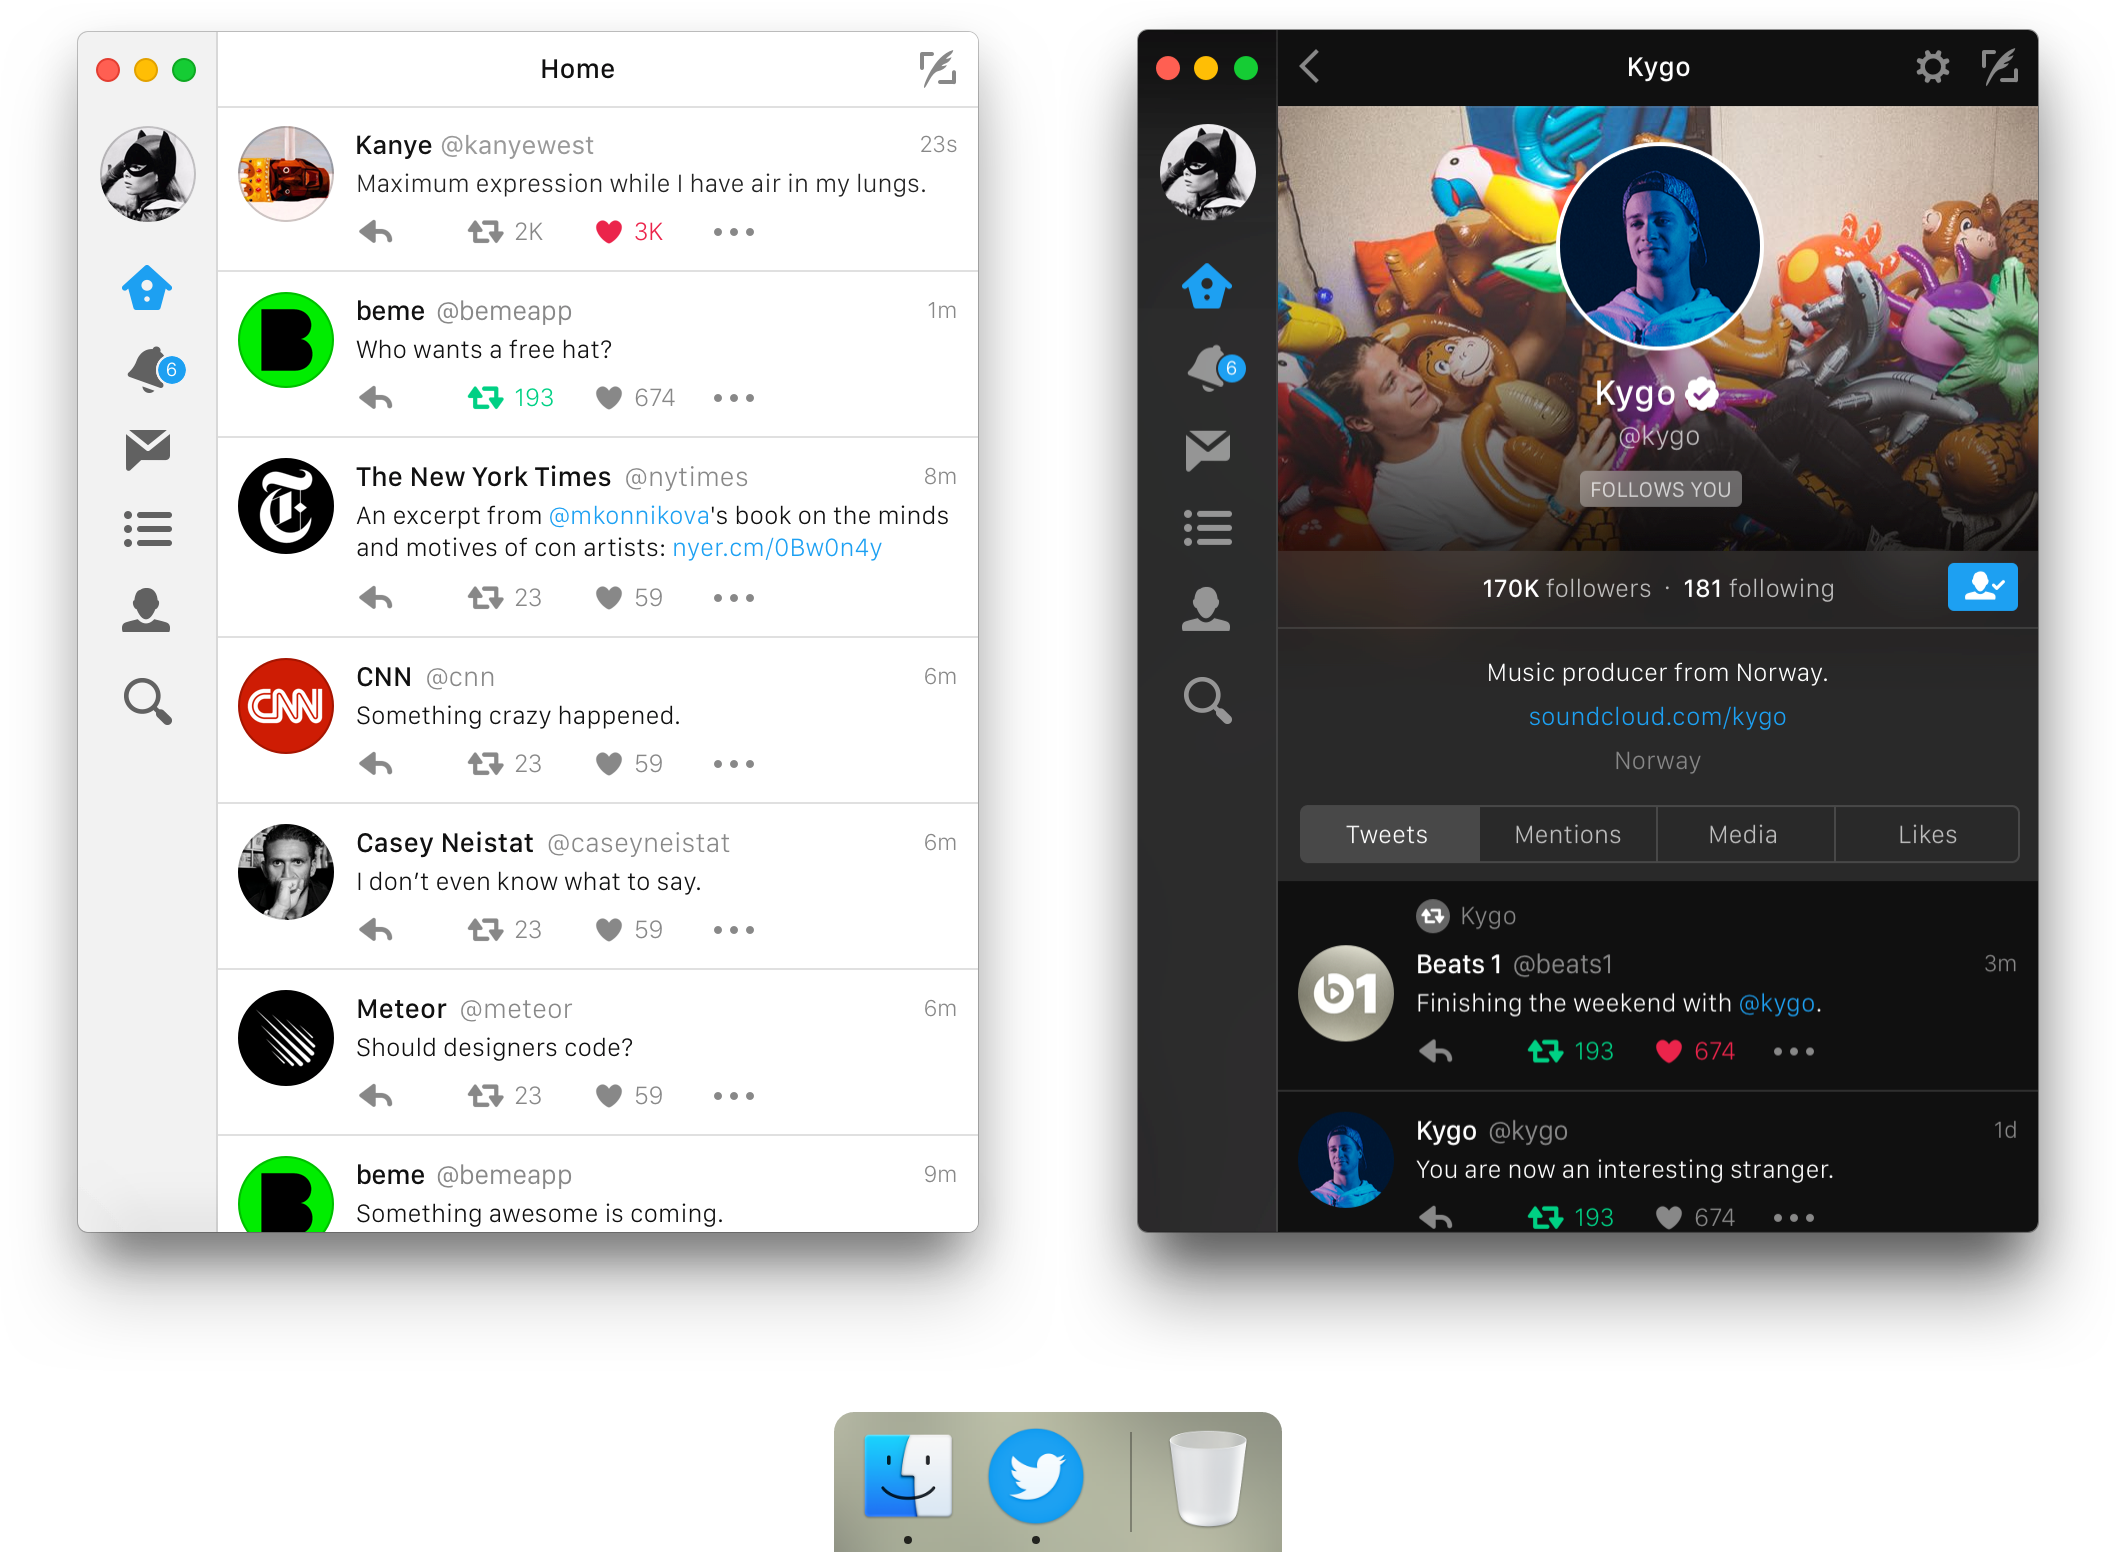
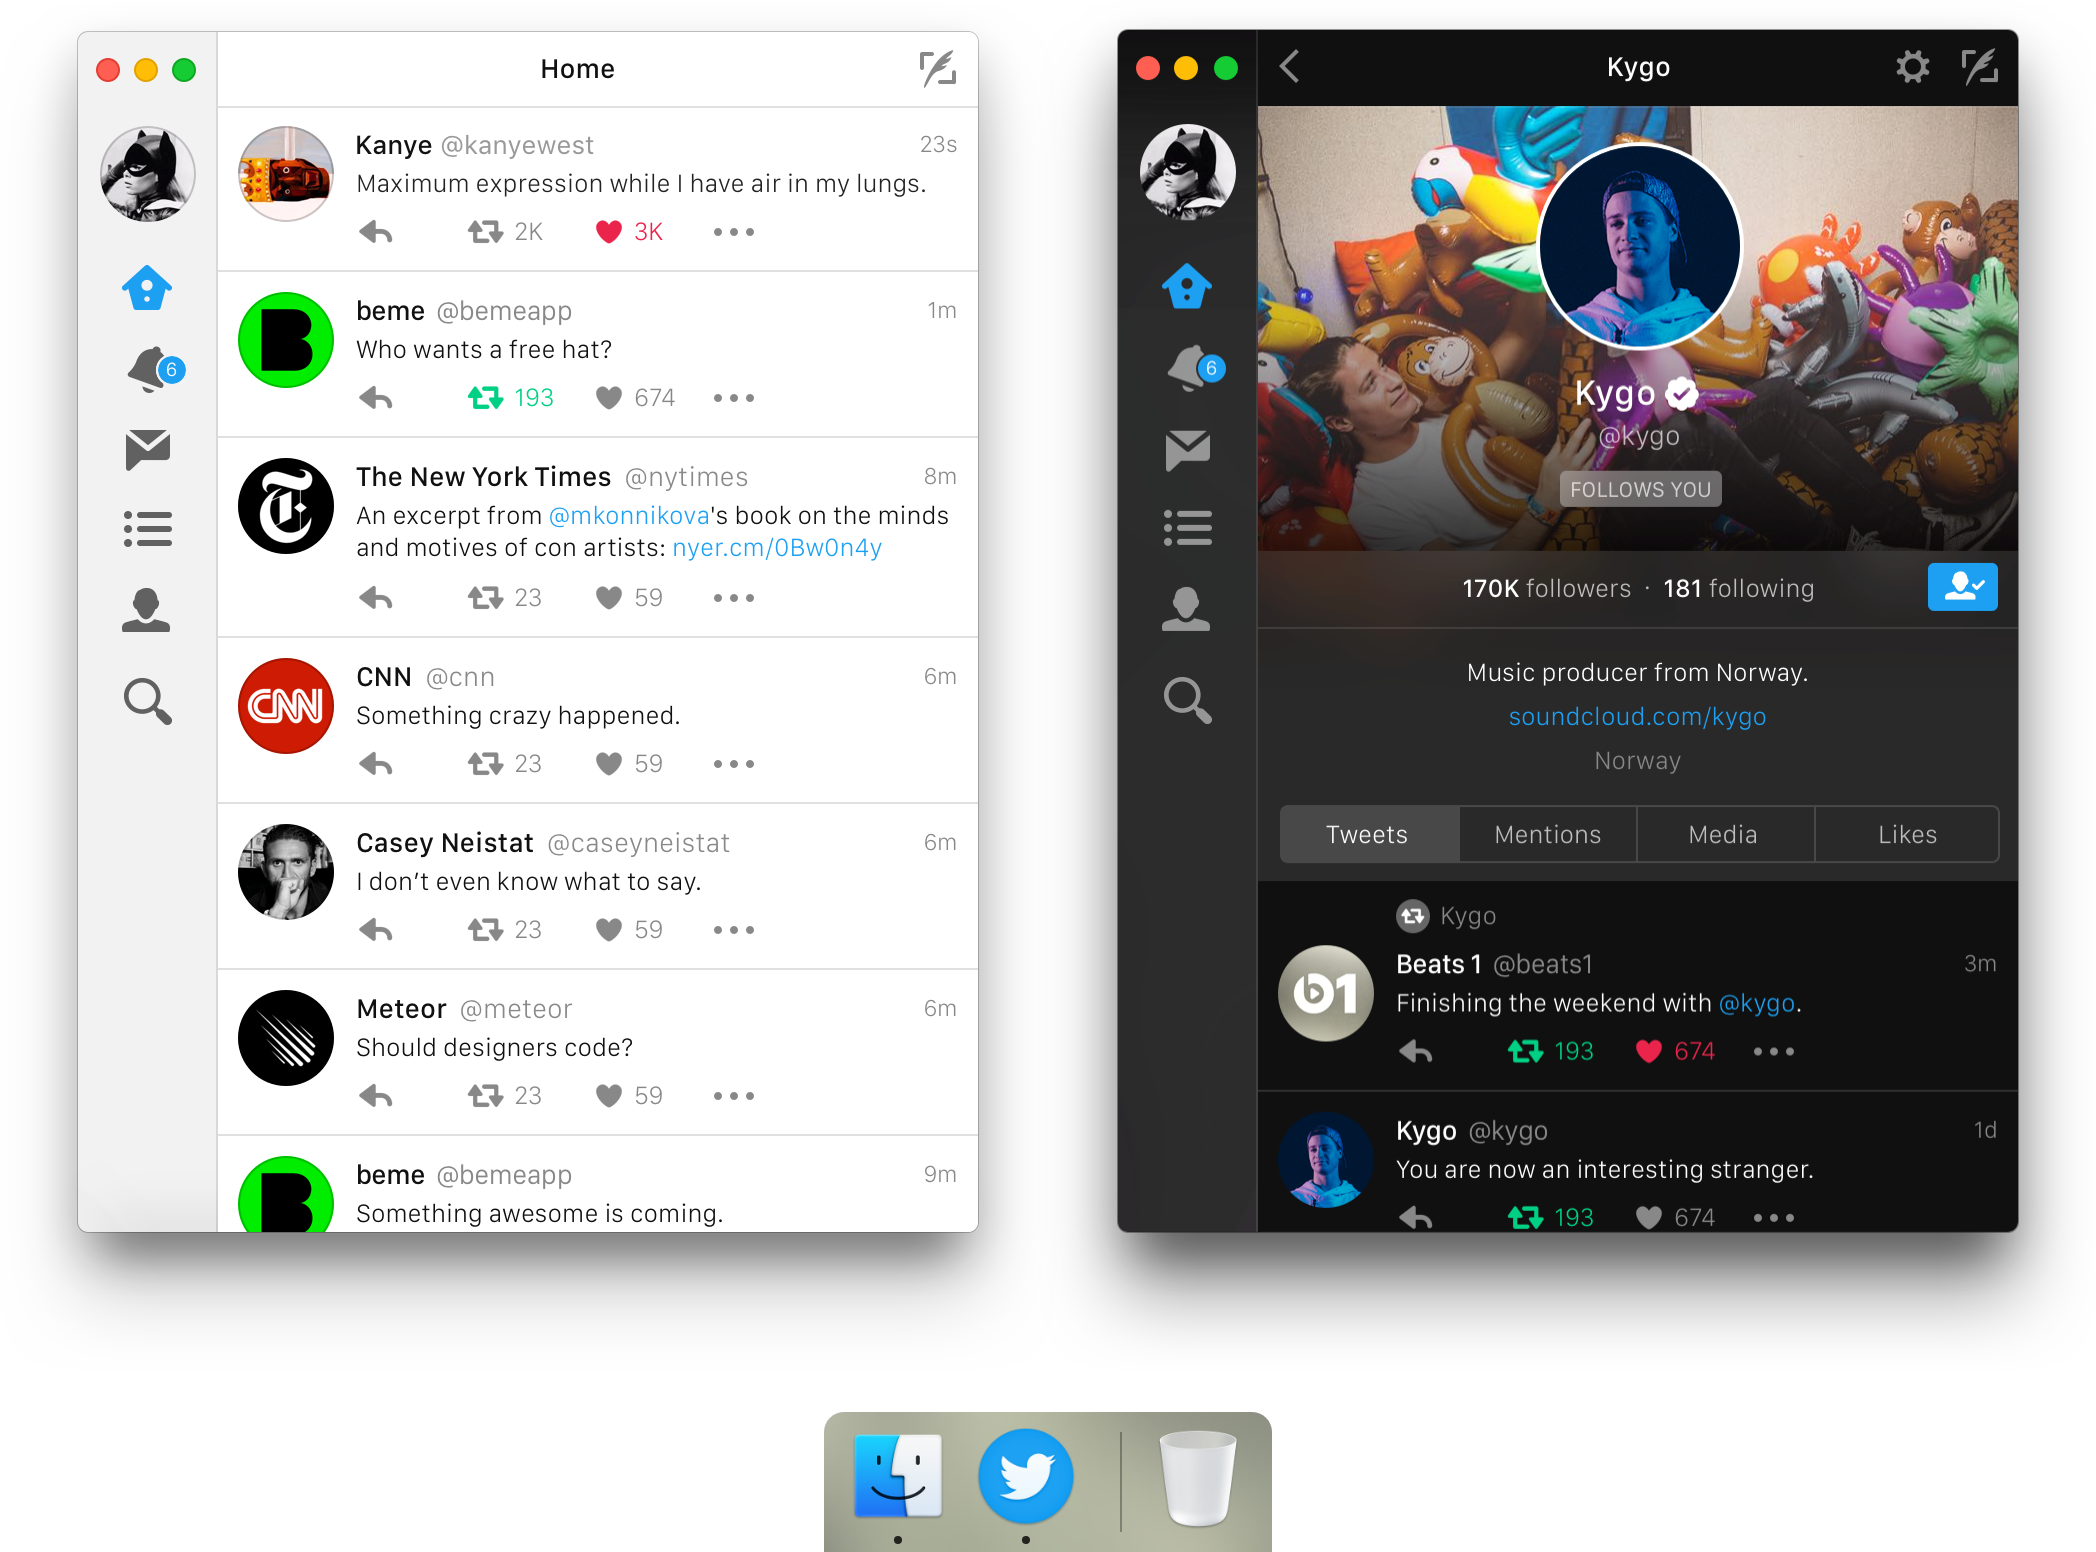
One day...

diff --git a/index.html b/index.html
@@ -185,7 +185,7 @@
       /img/twitter@2x.png 2x"
       class="twitter"
       height="776"
-      width="1060"
+      width="1050"
       />
     </div>
   </section>

diff --git a/style.css b/style.css
@@ -244,8 +244,8 @@ main {
 }
 
 .osx .twitter {
-  max-width: 1060px;
-  width: 90%;
+  max-width: 1050px;
+  width: 92%;
 }
 
 .therm .full {
